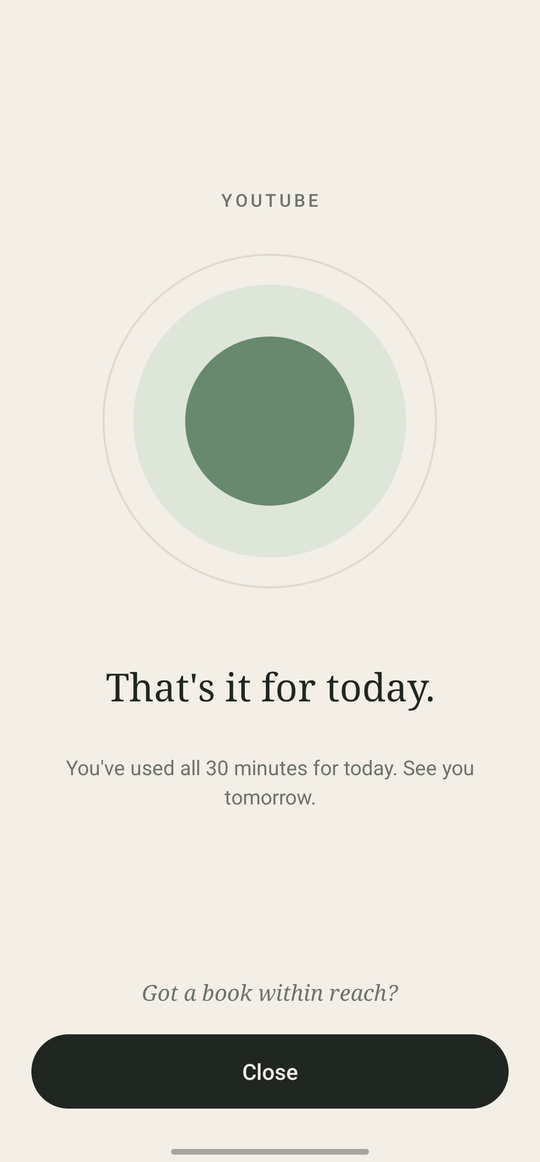
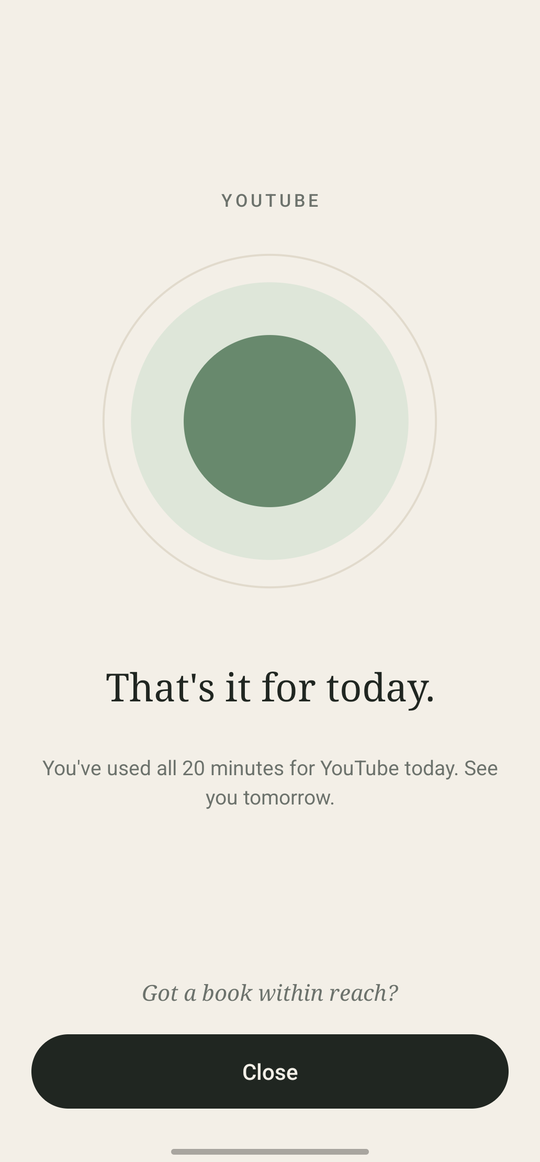
docs: describe rules in readme

diff --git a/README.md b/README.md
@@ -1,25 +1,37 @@
 # breather
 
-A small Android app that puts a breathing pause in front of Instagram and YouTube, both in their apps and in the browser. Inspired by [one sec](https://one-sec.app).
+A small Android app that puts a breathing pause in front of the apps and sites you choose, both in the apps and in the browser. It starts with Instagram and YouTube. Inspired by [one sec](https://one-sec.app).
 
 <p>
-  <img src="docs/screenshots/main.png" width="200" alt="Main screen with today's minutes and the rules">
+  <img src="docs/screenshots/main.png" width="200" alt="Main screen with the rules and today's minutes">
   <img src="docs/screenshots/breathe.png" width="200" alt="Breathing pause">
   <img src="docs/screenshots/question.png" width="200" alt="Question after the pause">
   <img src="docs/screenshots/exhausted.png" width="200" alt="Daily budget used up">
+  <img src="docs/screenshots/rule.png" width="200" alt="Editing a rule">
 </p>
 
 ## How it works
 
-1. You open Instagram or YouTube, either the app or the site in Vivaldi, Chrome, Brave or Firefox.
+1. You open an app or site from one of your rules. A site counts when it's open in Vivaldi, Chrome, Brave or Firefox.
 2. A full-screen pause covers it, and a circle breathes in and out for 15 seconds.
 3. The app asks whether you still want to open it, and tells you how many times you tried today.
 4. You choose:
    - **Let it go** goes back to the home screen. So does the back key.
    - **Open for 10 min** starts a session. When the session ends, the pause comes back.
-5. Time spent in sessions counts against a daily budget, 30 minutes by default, shared by both sites. Once the budget is used up, the pause only lets you close.
+5. Time spent in sessions counts against the rule's daily budget. Once the budget is used up, the pause only lets you close.
 
-You can change the pause length, the daily minutes and the minutes per opening in the app. The counters reset at midnight.
+The counters reset at midnight.
+
+## Rules
+
+A rule has a name, some sites and some apps, plus its own minutes per day and minutes per opening.
+- Instagram and YouTube come as the first two rules.
+- **Add a rule** creates a new one.
+- Tap a rule to edit or delete it.
+- Sites also cover their subdomains, so `reddit.com` includes `old.reddit.com`.
+- The apps are picked from the installed ones.
+
+The pause length is one setting for all rules.
 
 To recognise the sites, an AccessibilityService reads the browser's address bar. The app doesn't read page content and has no network access.
 
